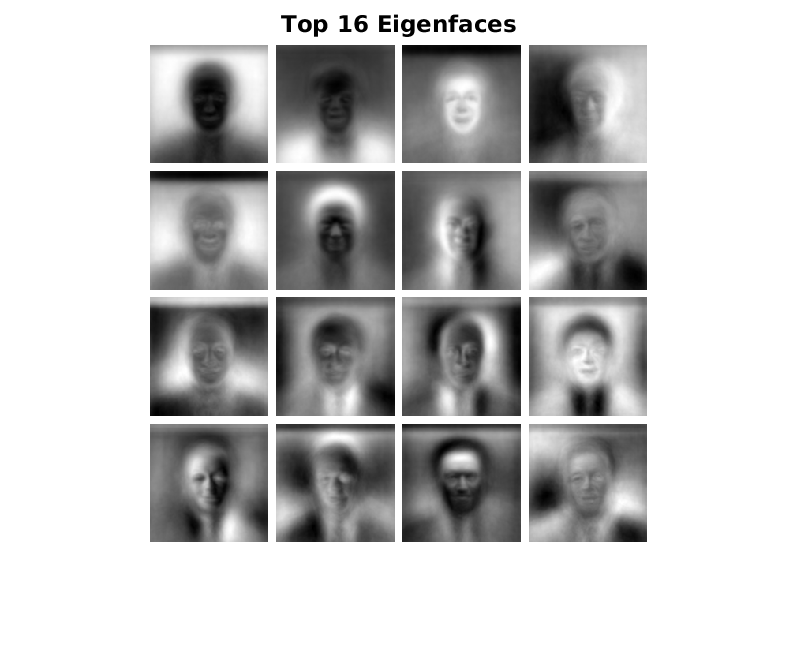
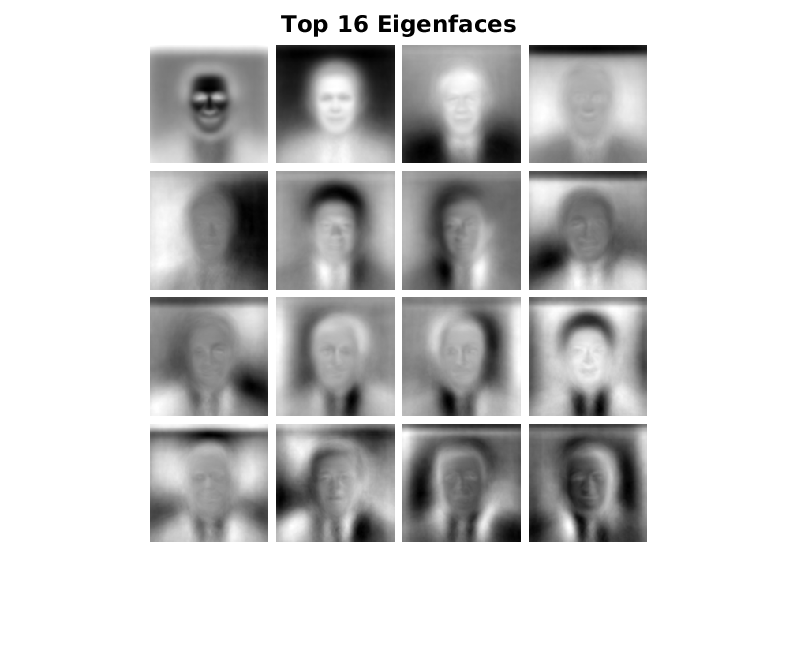
mat file

diff --git a/rp/main_fitcecoc.m b/rp/main_fitcecoc.m
@@ -14,7 +14,7 @@
 
 % Image preprocessing parameters
 targetSize = [128,128]; % Resize images to 128x128
-k = 40; % Number of features (eigenfaces) to consider
+k = 60; % Number of features (eigenfaces) to consider
 location = fullfile('..','lfw'); % Image dataset location
 
 % Global Plot Settings
